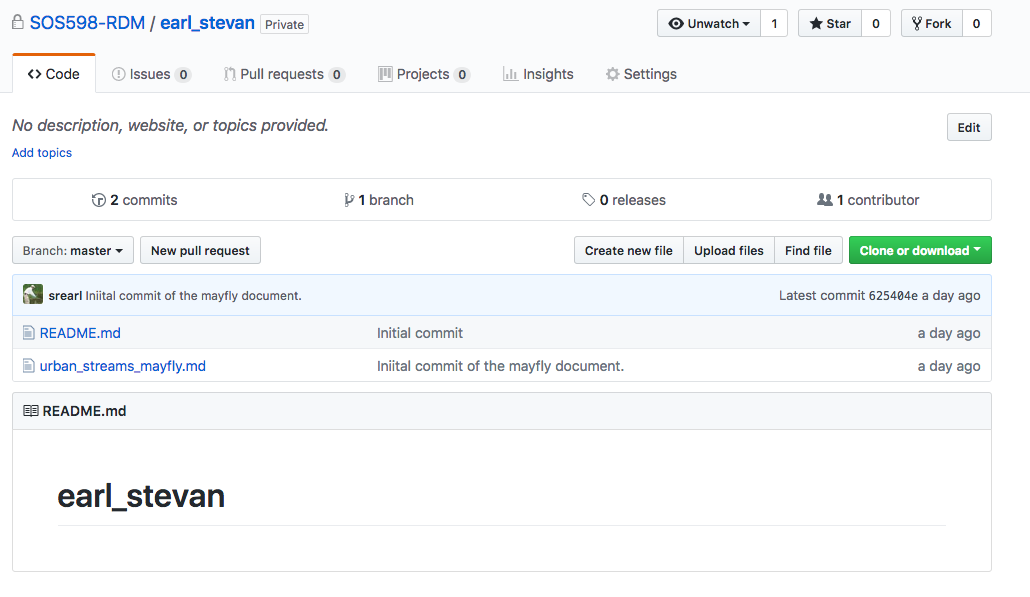
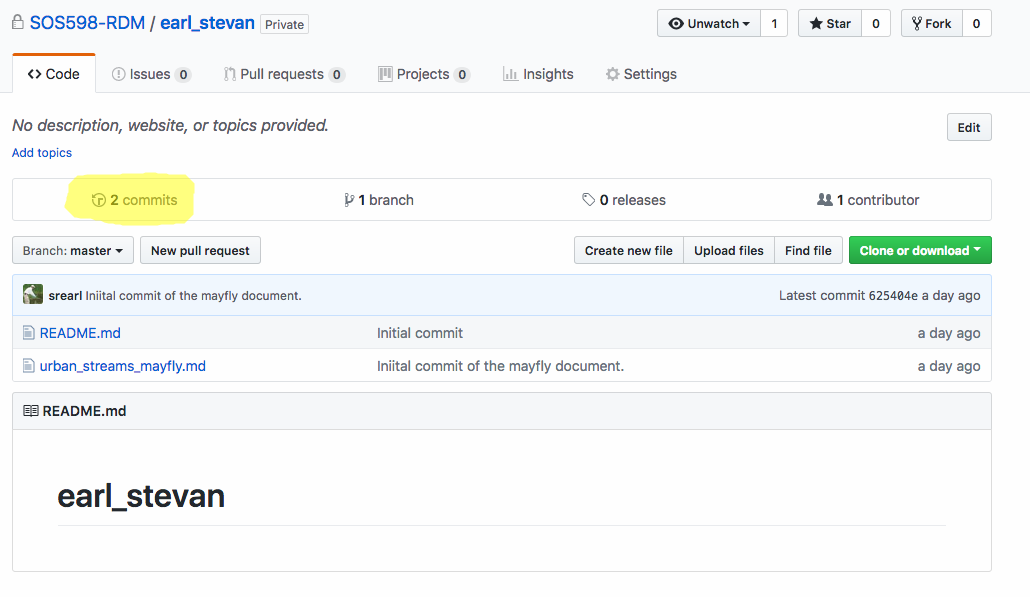
added get sha, and improved show-history figure.

Changed region(s): [[0.0621, 0.2714, 0.1864, 0.392]]

diff --git a/README.md b/README.md
@@ -157,13 +157,17 @@ In this case, because the file we added is a markdown file, when viewed in GitHu
 
 The above steps are repeated as often as needed and appropriate, and typically many, many times over the life of a project. In our case, once you are ready to submit a final version of your project for a grade, you will open an issue after your last commit that will alert me that you are submitting your assignment. GitHub issues are a fabulous tool that facilitate project-specific discussions with other GitHub users inside or outside of your team. I also use issues as helpful reminders of problems or areas of a project that need attention, or where I have ideas to improve the project.
 
-We will need a few pieces of information in order to create our issue, including the link to the file that is to be graded and the SHA of the commit that corresponds to the version (snapshot, or commit) of the project that is to be graded. Your repositories are relatively empty so it will be fairly obvious what you are submitted to be graded even without passing along those details, but remember that a goal here is to gain some familiarity with GitHub and its many features.
+We will need a few pieces of information in order to create our issue, including the link to the file that is to be graded and the SHA of the commit that corresponds to the version (snapshot, or commit) of the project that is to be graded. Your repositories are relatively empty so it will be fairly obvious what you are submitting to be graded even without passing along those details, but a goal here is to gain some familiarity with GitHub and its many features.
 
-The link to the file is what we had clicked on above to view our file in GitHub. Copy that url so that we can paste it into our issue when we create it. The SHA is the output of an algorithm generated from the contents of a file or directory. We can get the SHA of our commit from our commit history. To view the history of our project, we click on *commits* in our GitHub repository.
+The link to the file is what we had clicked on above to view our file in GitHub. Copy that url so that we can paste it into our issue when we create it. The SHA is the output of an algorithm generated from the contents of a file or directory, this gives us a way to reference commits. We can get the SHA of our commit from our commit history. To view the history of our project, we click on *commits* in our GitHub repository.
 
 **Click on commits in our repository to see a history of our project**
 ![show-history](figures/show-history.png)
 
+There are only two commits in the history of this project, the initial commit when the repository was established, and our initial commit of the mayfly document. These are ordered chronologically with the most recent commit first. To get the SHA of any given commit, click on the clipboard icon on the row of the commit you want to reference. In our case, the most recent commit is almost certainly going to be the commit you want to reference for your assignment, but references commits can be important on larger projects or when working on teams.
+
+**Click on the clipboard icon on the row of the commit we want to reference to get the SHA for that commit**
+![get-sha](figures/get-sha.png)
 
 
 ## submit peer review by opening a GitHub issue
